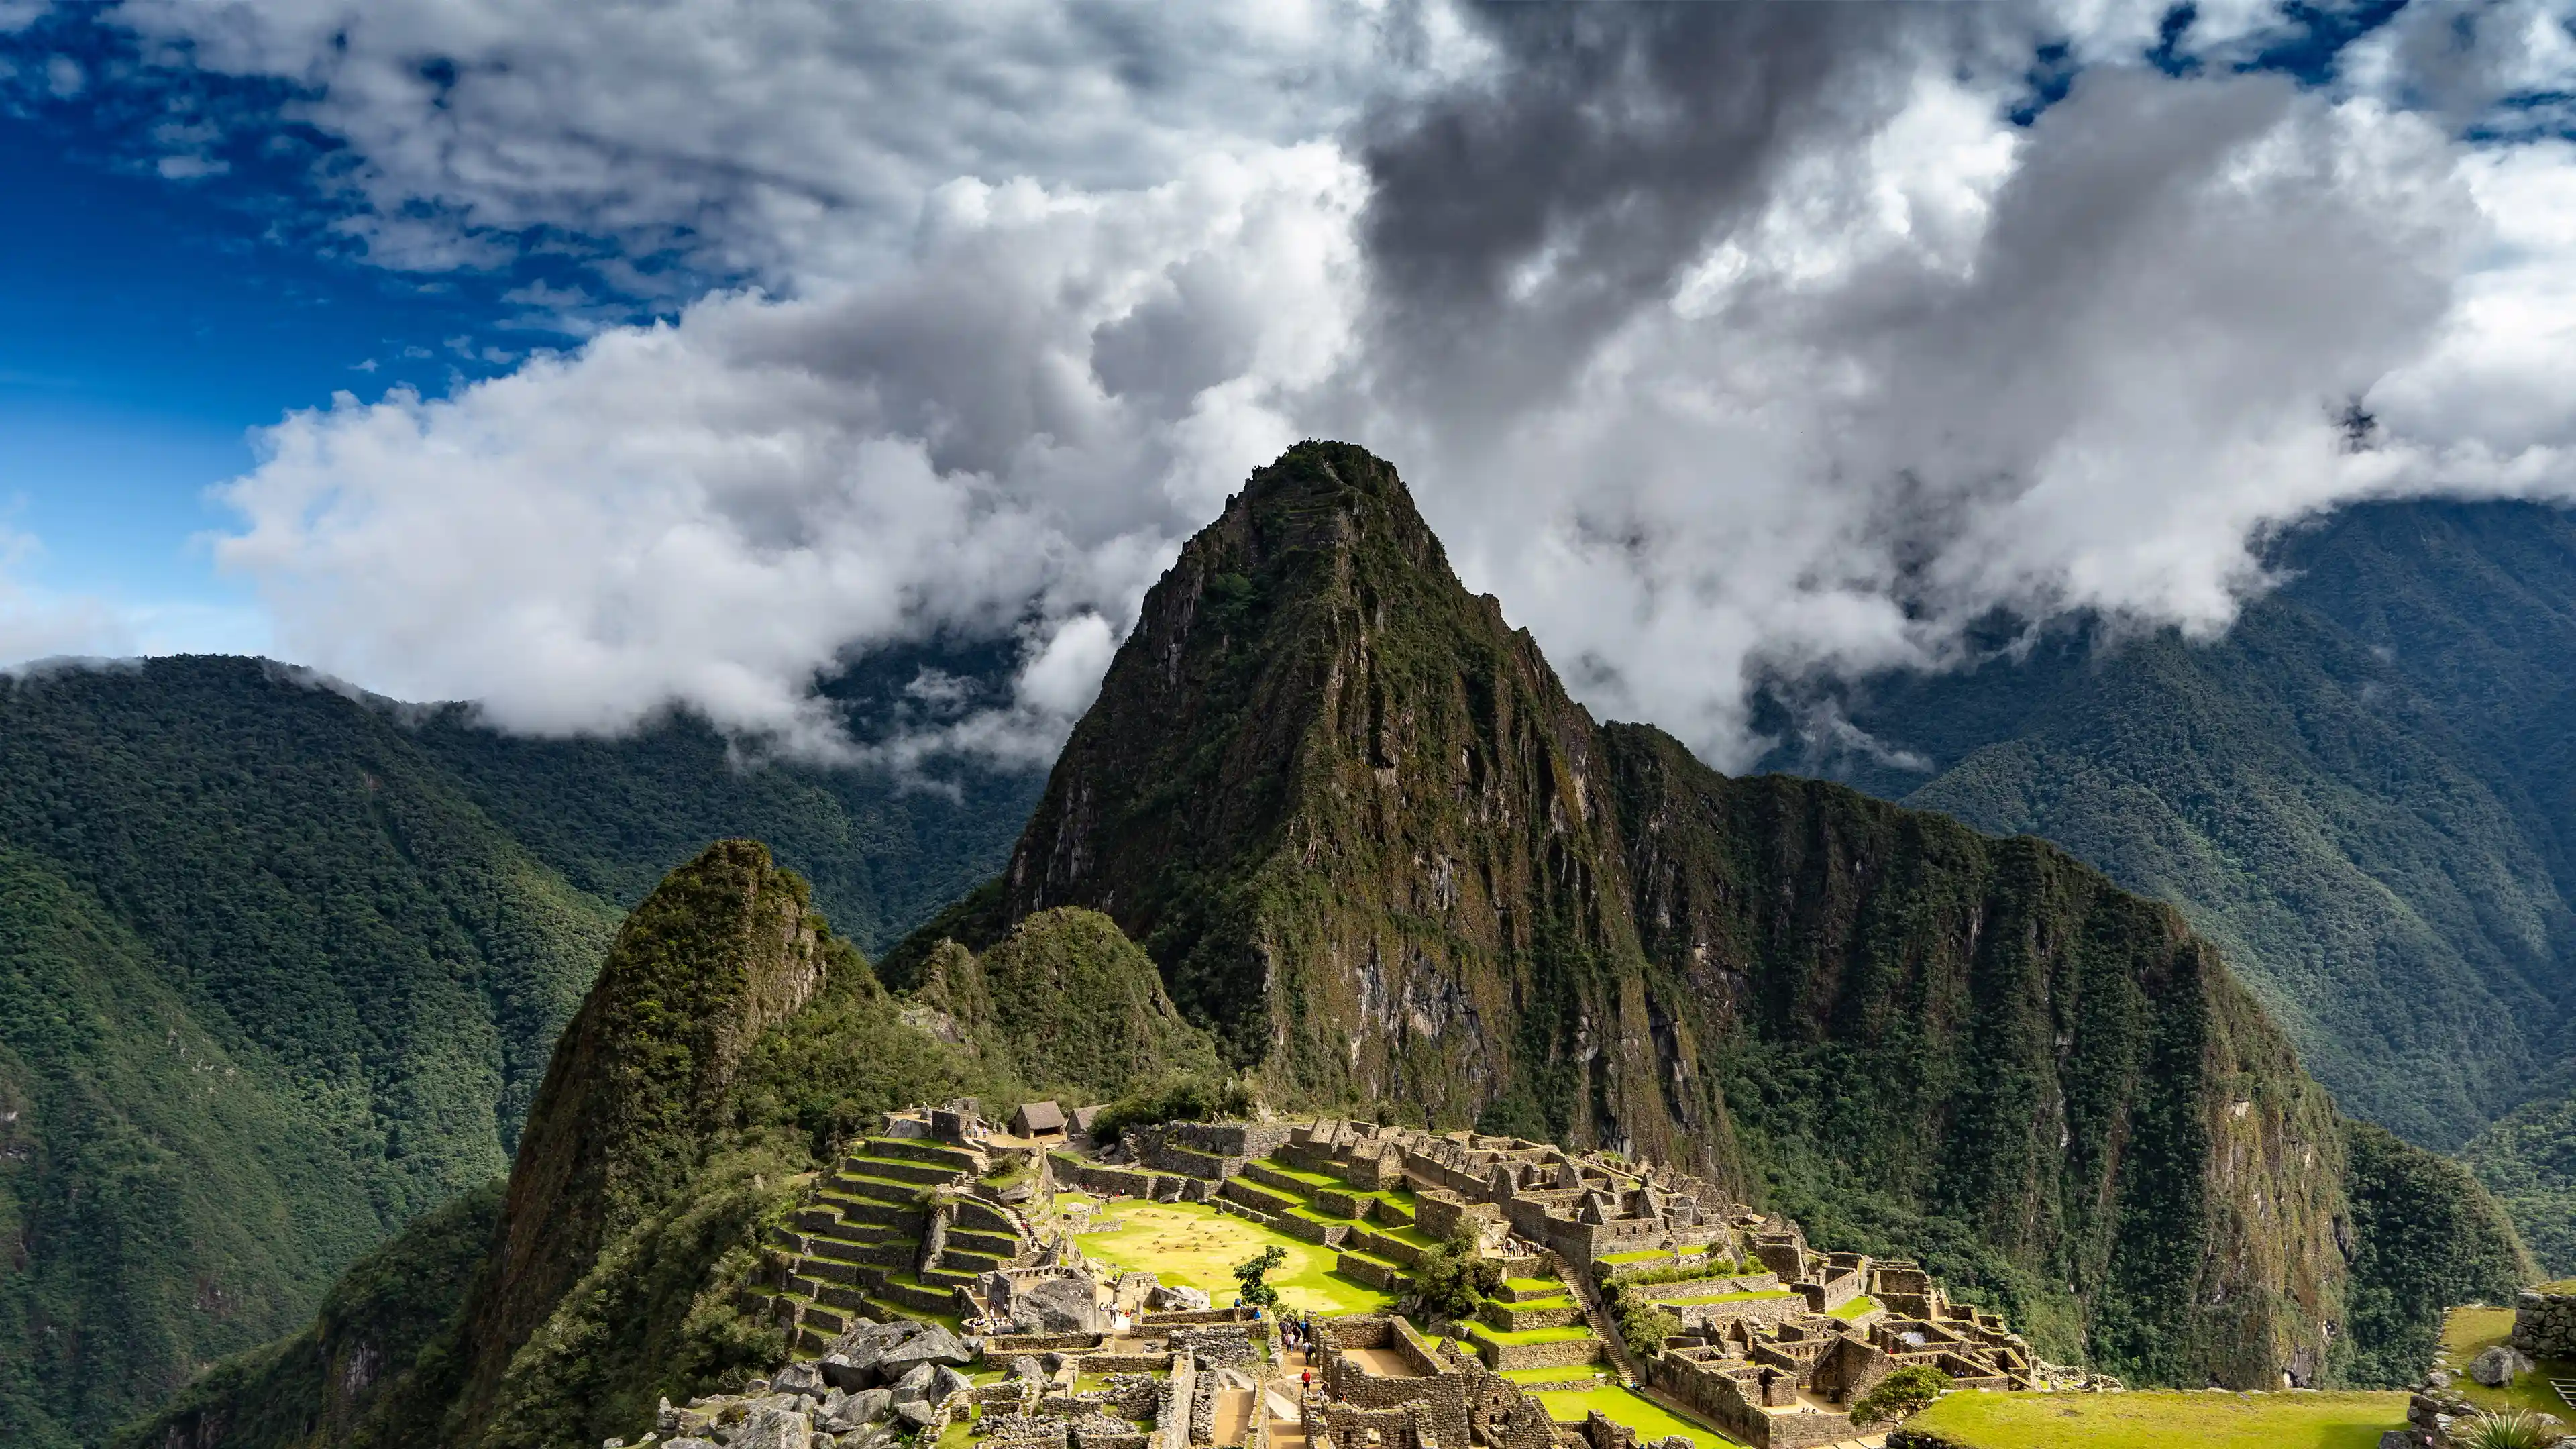
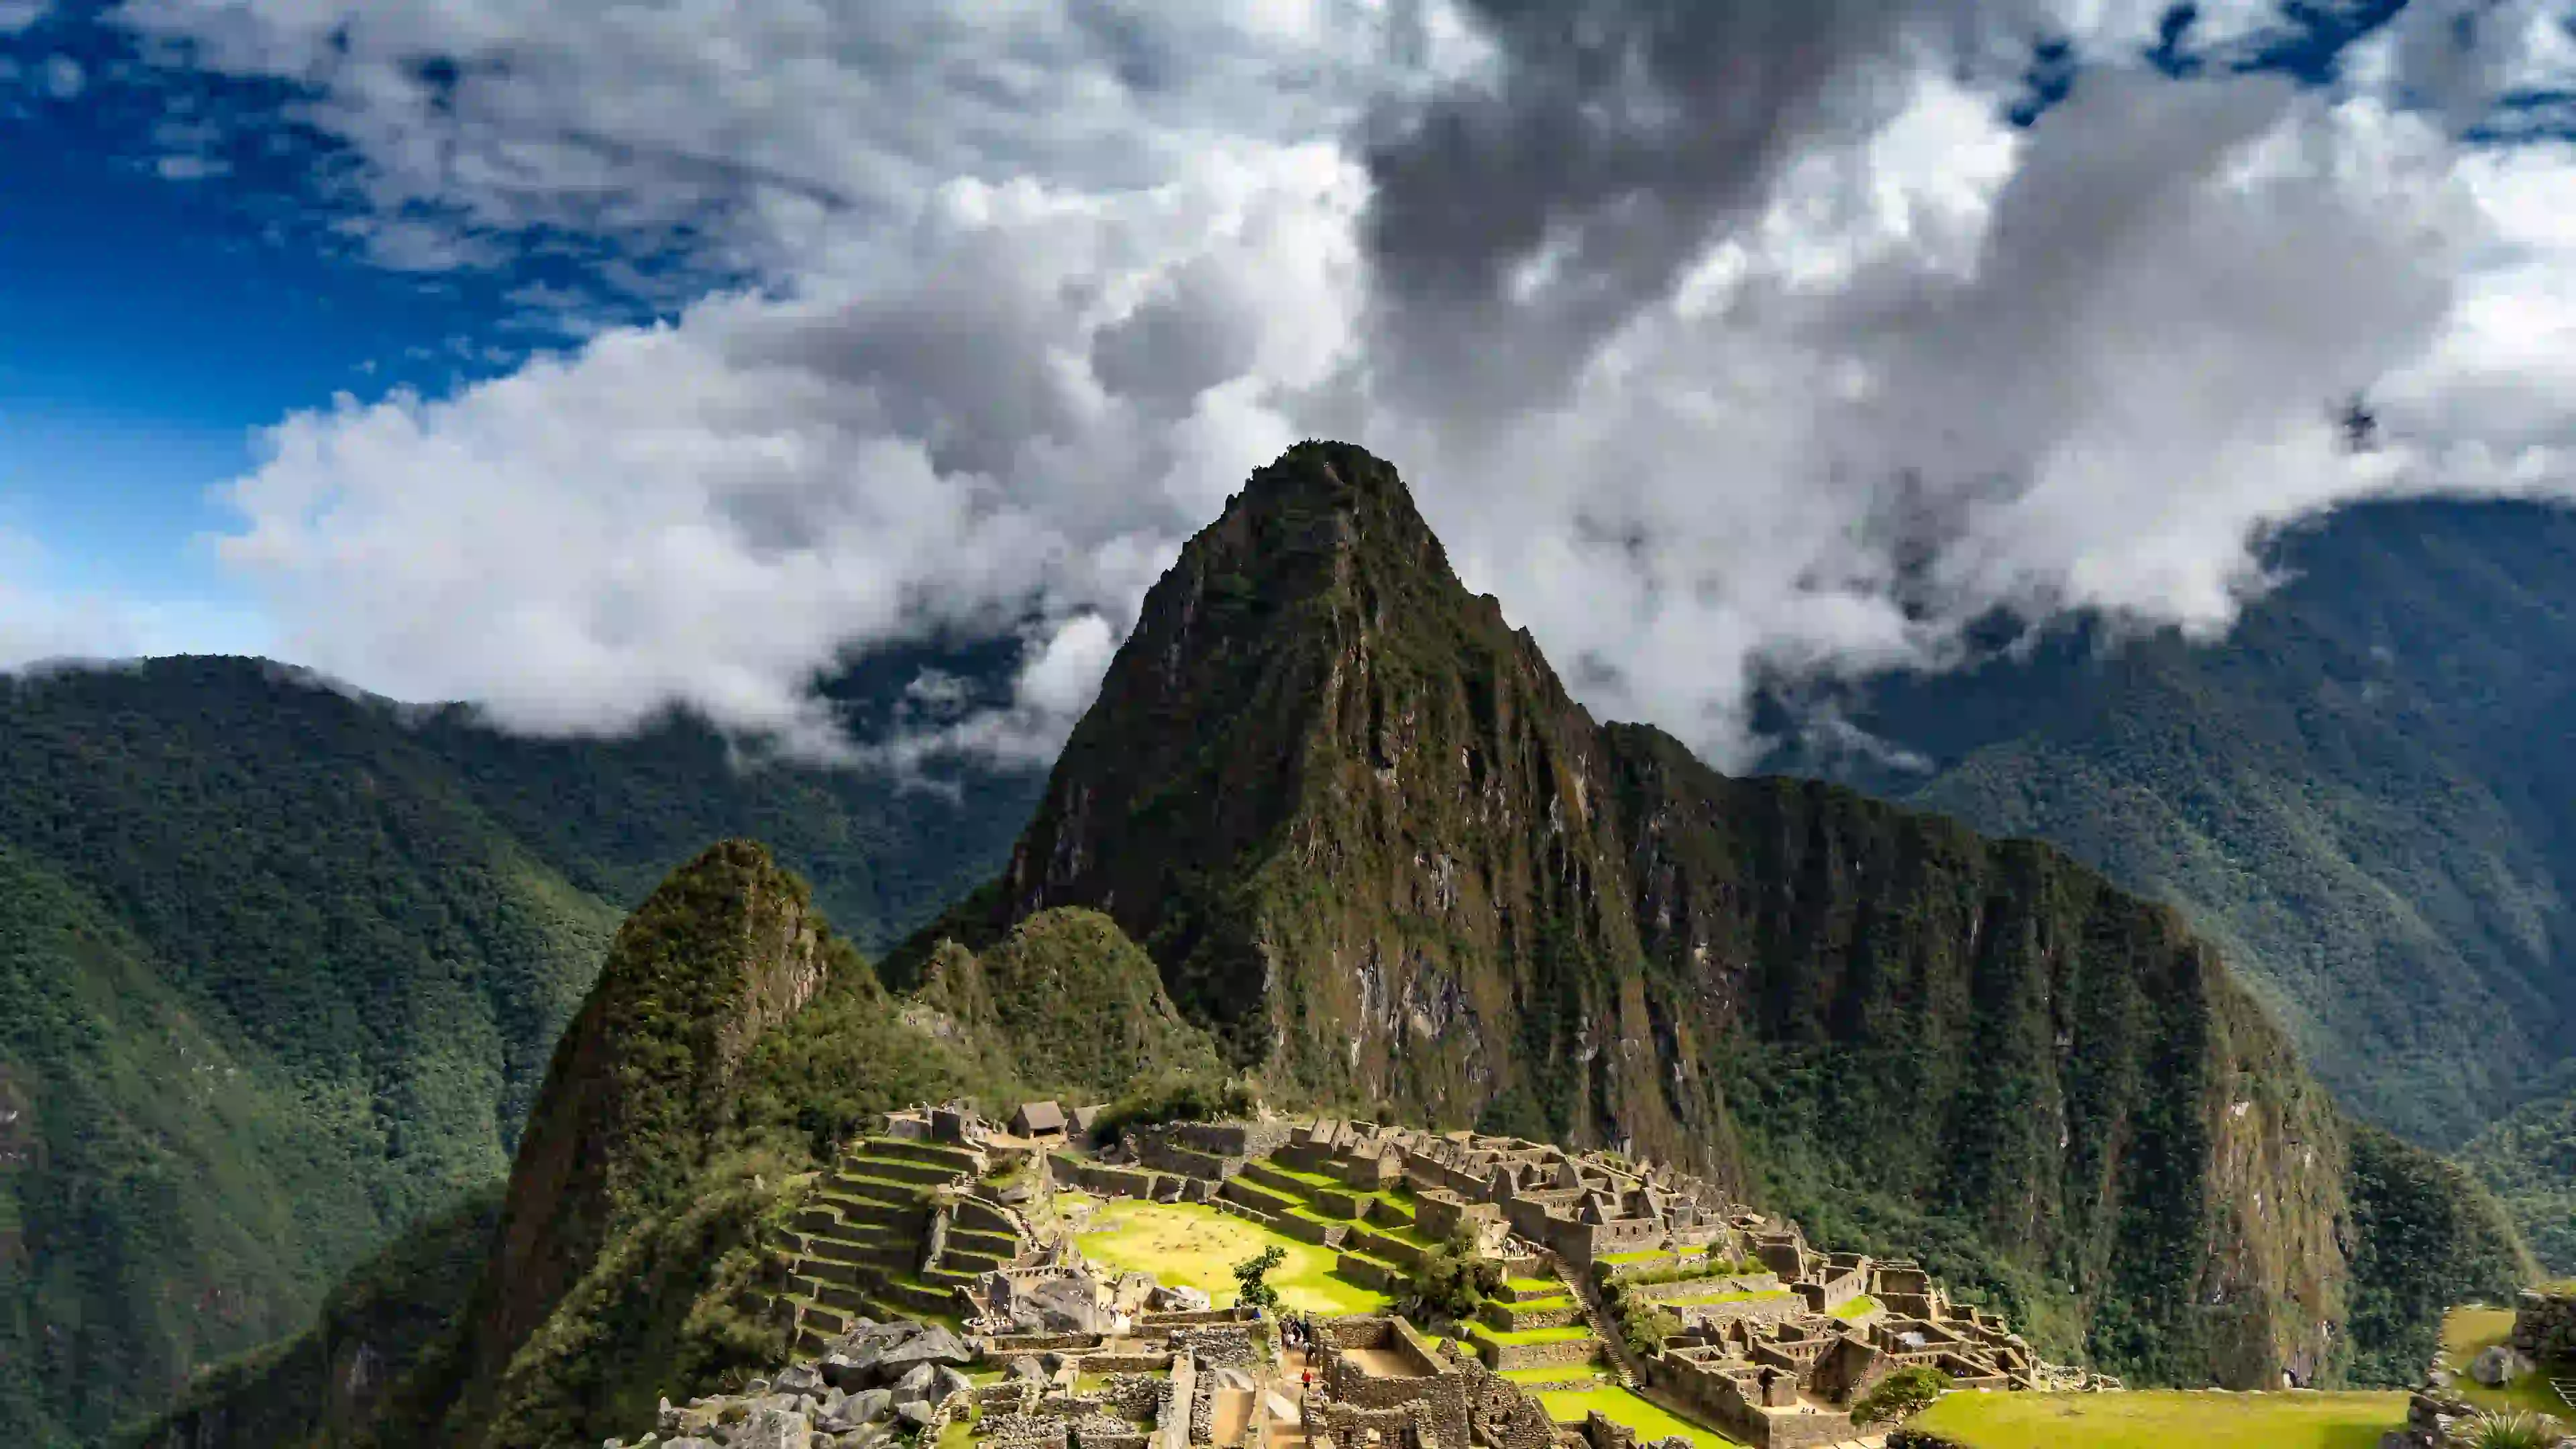
fix

Changed region(s): [[0.0625, 0.3412, 1.0, 1.0], [0.0, 0.6824, 0.0312, 0.7134]]

diff --git a/place.html b/place.html
@@ -5,16 +5,12 @@
     <meta name="viewport" content="width=device-width, initial-scale=1.0">
     <meta name="description" content="Information about Peru, including weather and general data.">
     <meta name="author" content="Yeikob Valverde">
-
-    <title>Peru</title>
-
+    <title>Peru | WDD 131</title>
     <link rel="preconnect" href="https://fonts.googleapis.com">
     <link rel="preconnect" href="https://fonts.gstatic.com" crossorigin>
     <link href="https://fonts.googleapis.com/css2?family=Montserrat:wght@400;600;700&display=swap" rel="stylesheet">
-
     <link rel="stylesheet" href="styles/place.css">
     <link rel="stylesheet" href="styles/place-large.css">
-
     <script src="scripts/place.js" defer></script>
 </head>
 